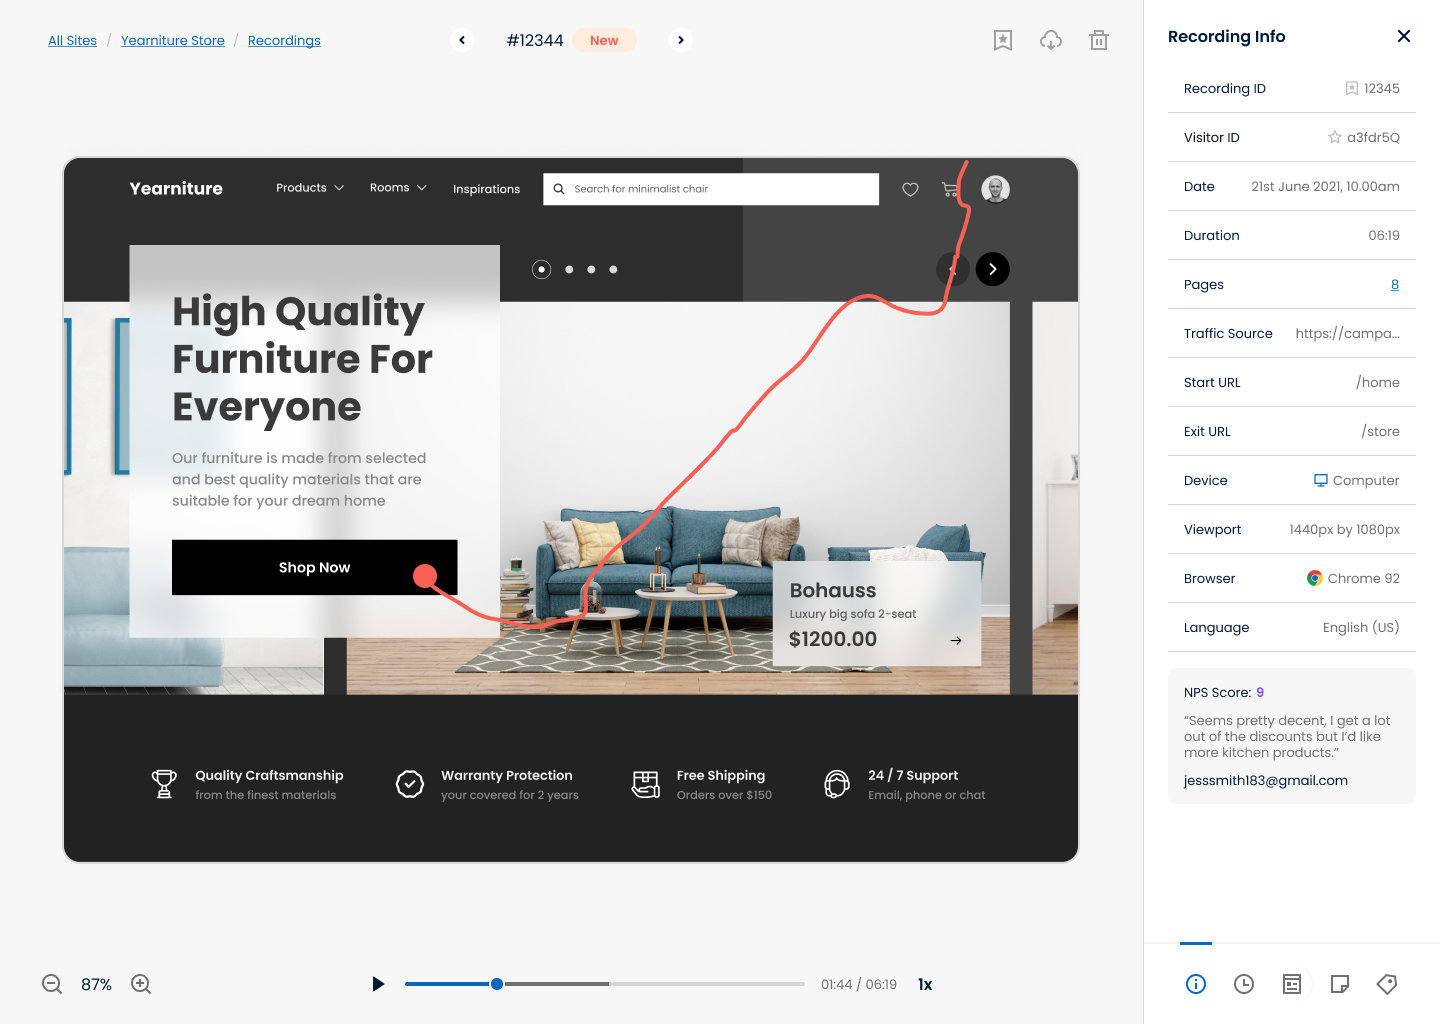
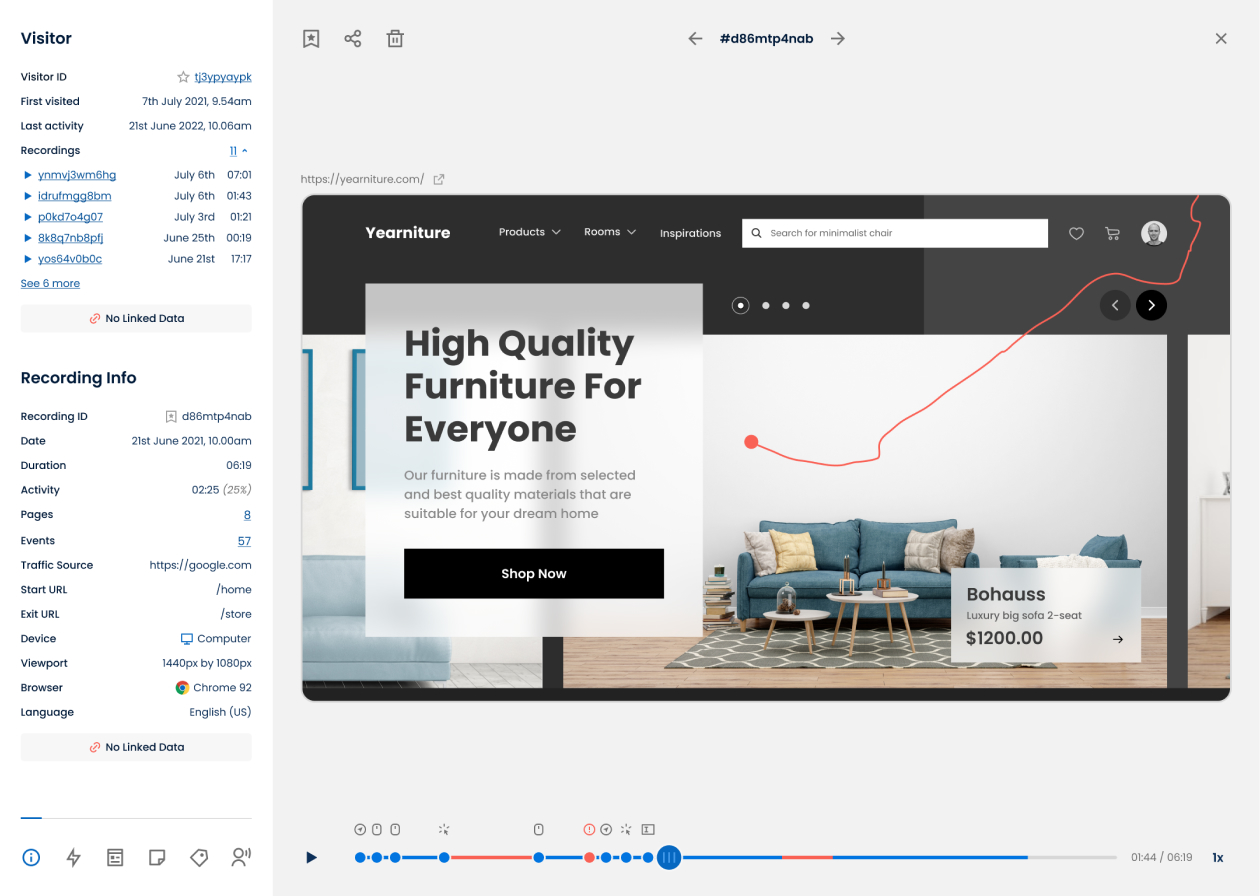
Update recordings page

diff --git a/src/components/screenshots.tsx b/src/components/screenshots.tsx
@@ -14,16 +14,18 @@ import heatmaps1 from '../../public/screenshots/heatmaps-1.webp';
 import heatmaps2 from '../../public/screenshots/heatmaps-2.webp';
 import heatmaps3 from '../../public/screenshots/heatmaps-3.webp';
 import heatmaps4 from '../../public/screenshots/heatmaps-4.webp';
+import journeys1 from '../../public/screenshots/journeys-1.webp';
+import journeys2 from '../../public/screenshots/journeys-2.webp';
+import journeys3 from '../../public/screenshots/journeys-3.webp';
+import journeys4 from '../../public/screenshots/journeys-4.webp';
+
 import nps1 from '../../public/screenshots/nps-1.webp';
 import nps2 from '../../public/screenshots/nps-2.webp';
 import recordings1 from '../../public/screenshots/recordings-1.webp';
 import sentiment1 from '../../public/screenshots/sentiment-1.webp';
 import sentiment2 from '../../public/screenshots/sentiment-2.webp';
 import session1 from '../../public/screenshots/session-1.webp';
-import journeys1 from '../../public/screenshots/journeys-1.webp';
-import journeys2 from '../../public/screenshots/journeys-2.webp';
-import journeys3 from '../../public/screenshots/journeys-3.webp';
-import journeys4 from '../../public/screenshots/journeys-4.webp';
+import session2 from '../../public/screenshots/session-2.webp';
 
 type ScreenshotType = 
   'analytics-1' |
@@ -36,17 +38,18 @@ type ScreenshotType =
   'heatmaps-1' |
   'heatmaps-2' |
   'heatmaps-3' |
-  'heatmaps-4' |
-  'nps-1' |
-  'nps-2' |
-  'sentiment-1' |
-  'sentiment-2' |
-  'session-1' | 
-  'recordings-1' | 
+  'heatmaps-4' | 
   'journeys-1' | 
   'journeys-2' | 
   'journeys-3' | 
-  'journeys-4';
+  'journeys-4' |
+  'nps-1' |
+  'nps-2' |
+  'recordings-1' |
+  'sentiment-1' |
+  'sentiment-2' |
+  'session-1' | 
+  'session-2';
 
 interface Props extends Omit<ImageProps, 'src'> {
   screen: ScreenshotType;
@@ -76,18 +79,6 @@ const getScreenSrc = (screen: ScreenshotType) => {
       return heatmaps3;
     case 'heatmaps-4':
       return heatmaps4;
-    case 'nps-1':
-      return nps1;
-    case 'nps-2':
-      return nps2;
-    case 'sentiment-1':
-      return sentiment1;
-    case 'sentiment-2':
-      return sentiment2;
-    case 'session-1':
-      return session1;
-    case 'recordings-1':
-      return recordings1;
     case 'journeys-1':
       return journeys1;
     case 'journeys-2':
@@ -96,7 +87,21 @@ const getScreenSrc = (screen: ScreenshotType) => {
       return journeys3;
     case 'journeys-4':
       return journeys4;
-  }
+    case 'nps-1':
+      return nps1;
+    case 'nps-2':
+      return nps2;
+    case 'sentiment-1':
+      return sentiment1;
+    case 'sentiment-2':
+      return sentiment2;
+    case 'recordings-1':
+      return recordings1;
+    case 'session-1':
+      return session1;
+    case 'session-2':
+      return session2;
+}
 };
 
 export const Screenshot: FC<Props> = ({ screen, ...props }) => (

diff --git a/src/pages/product/recordings.tsx b/src/pages/product/recordings.tsx
@@ -46,6 +46,12 @@ const ProductRecordings: SqueakyPage<NextPage> = () => (
               image: <Screenshot screen='session-1' width={738} height={525} />
             },
             {
+              icon: 'compass-discover-line',
+              title: 'Rich contextual data',
+              body: 'Alongside a rich array of contextual recording information, we link to your visitor\'s profile, any feedback they\'ve provided, a feed of all the pags they visited and their activity that session. You can even enrich it all with notes and tags for easy references later.',
+              image: <Screenshot screen='session-2' width={738} height={525} />,
+            },
+            {
               icon: 'sound-module-line',
               title: 'Advanced filtering',
               body: 'Reduce noise by using advanced filters to segment your recordings and surface only those relevant to the task at hand. ',
@@ -55,8 +61,8 @@ const ProductRecordings: SqueakyPage<NextPage> = () => (
               icon: 'ghost-line',
               title: 'Private by design',
               body: 'We provide tools that help you avoid collecting any personal data on your users, even in session recordings.  We also never use cookies or IP address tracking.',
-              image: <Screen screen='privacy-1' width={640} height={390} />,
-              shadowless: true
+              image: <Screen screen='privacy-3' width={616} height={391} />,
+              shadowless: true,
             }
           ]}
         />
@@ -86,8 +92,8 @@ const ProductRecordings: SqueakyPage<NextPage> = () => (
           />
           <FeaturesGridItem
             icon='film-line'
-            title='Perfect playback'
-            body='Our script captures a perfect copy of your website, exactly as your visitor saw it. That way, when you play back a visitor&apos;s session you can see exactly what they saw.'
+            title='Amazing playback'
+            body='Our script captures an exact copy of your website, as your visitor saw it. That way, when you play back a visitors session you can see exactly what they saw.'
           />
           <FeaturesGridItem
             icon='sound-module-line'
@@ -146,7 +152,7 @@ const ProductRecordings: SqueakyPage<NextPage> = () => (
     </section>
 
     <section className='tools'>
-      <ProductTools options={['analytics', 'feedback', 'heatmaps', 'journeys']} />
+      <ProductTools options={['analytics', 'events', 'feedback', 'heatmaps', 'journeys']} />
     </section>
 
     <section className='easy'>
